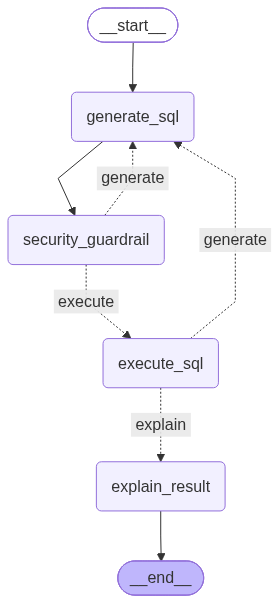
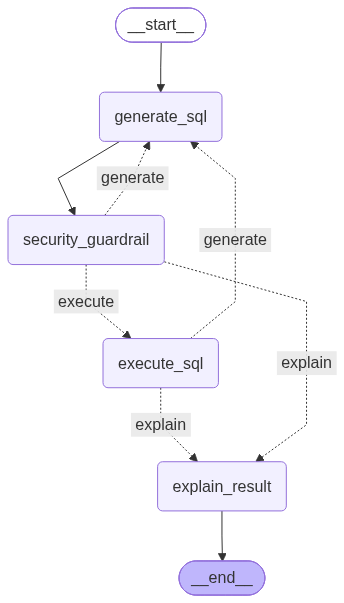
Added path from security guardrail node to explain result, when maximum number of generations is hit.

diff --git a/main_langgraph.py b/main_langgraph.py
@@ -130,6 +130,8 @@ def explain_result_node(state: State) -> dict:
 def route_after_guardrail(state: State):
     """Guardrail only decides: rewrite the query or execute it."""
     if state.get("error_log_guardrail") is not None:
+        if state["retry_count"] >= 3:
+            return "explain"  # Max retries hit -> fail gracefully to explanation
         return "generate"  # Security violation caught -> rewrite
     return "execute"        # Safe query -> run it
 
@@ -163,7 +165,8 @@ workflow.add_conditional_edges(
     route_after_guardrail,
     {
         "generate": "generate_sql",
-        "execute": "execute_sql"
+        "execute": "execute_sql",
+        "explain": "explain_result"
     }
 )
 

diff --git a/README.md b/README.md
@@ -15,9 +15,10 @@ graph TD
     
     security_guardrail -->|Detects DDL/DML Violation| generate_sql
     security_guardrail -->|Passed Safety Clearance| execute_sql[3. Execute SQL Node]
+    security_guardrail -->|Maximum number of generations hit| explain_result
     
     execute_sql -->|SQL Driver operational syntax error| generate_sql
-    execute_sql -->|Successful tabular extraction| explain_result[4. Explain Result Node]
+    execute_sql -->|Successful tabular extraction or maximum number of generations hit| explain_result[4. Explain Result Node]
     
     explain_result --> __end__([Natural Language Insight])
 ```
